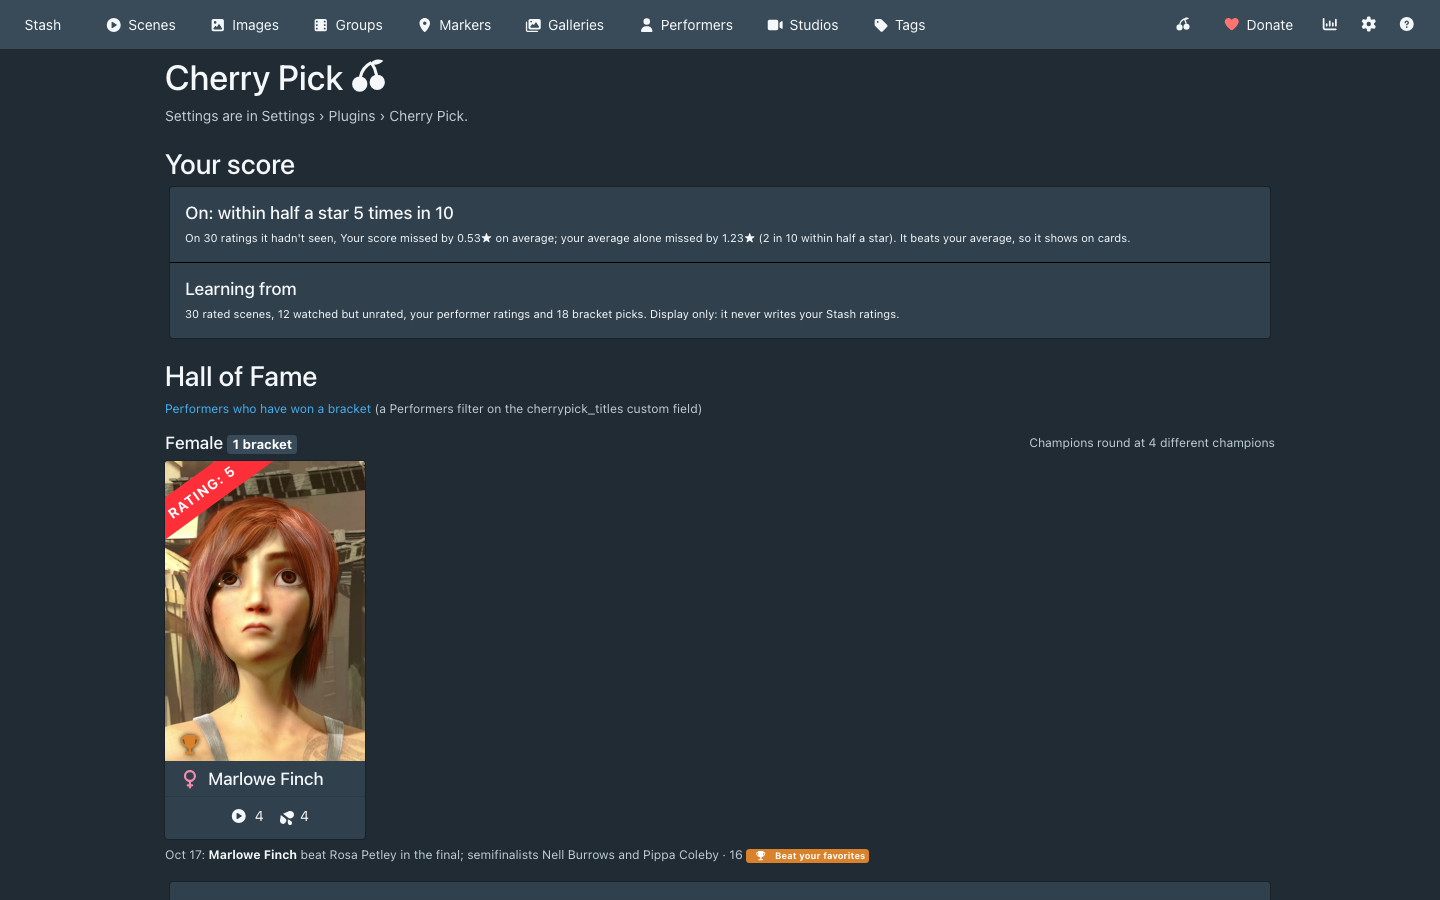
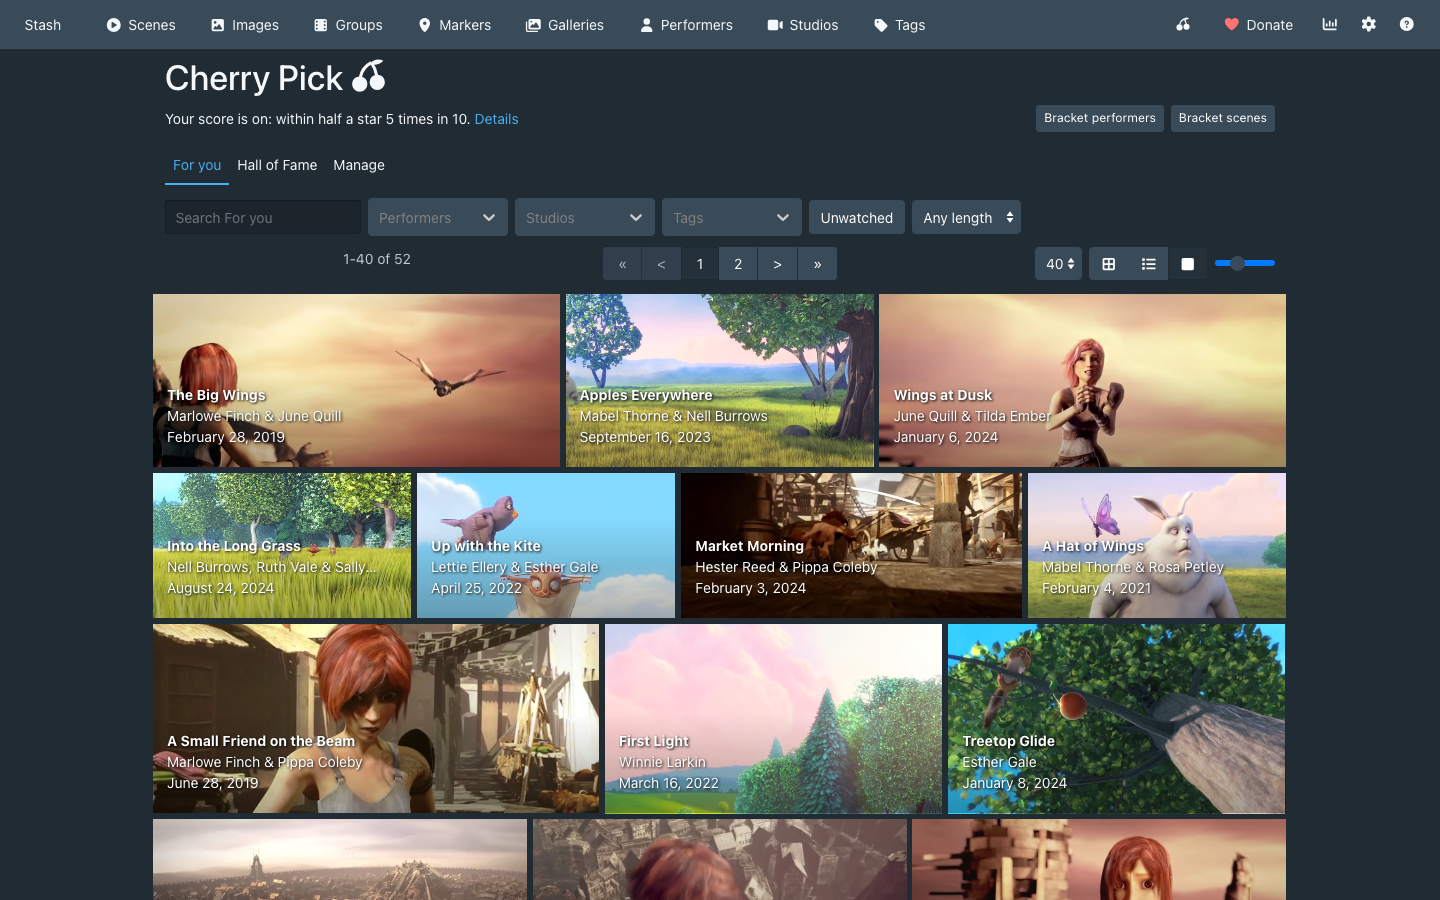
Cherry Pick 0.5.0: Curator 0.46.0 in the changelog; retake the page shot
The 0.5.0 section named Curator 0.45.0, written before the pin moved, so
tested-with.mjs failed the check job. The README's Cherry Pick's page shot
shows the For you tab in Stash's Wall view, retaken on the Blender demo
library, and the README says 0.5.0 is built and tested.

diff --git a/plugins/cherrypick/CHANGELOG.md b/plugins/cherrypick/CHANGELOG.md
@@ -7,7 +7,7 @@
 - In a scene bracket, each cover plays the scene's preview clip, muted and on a loop, so you can see both scenes move before you pick. A click or tap on the playing cover still picks it. Pointing at a cover turns its sound on when Stash is set to play sound on previews. A clip starts once at least half the cover is on screen, so on a phone the lower scene waits until you scroll to it, and nothing loads for a cover you haven't reached. A scene Stash made no preview for keeps its cover, and with reduced motion set on your device every cover stays still. The clip is the preview Stash generated, as in Look closer, so it plays whatever the scene's format and records no play.
 - The foot of Cherry Pick's page shows the version Stash has installed, with links to what's new, the forum topic and the source code, and Support Cherry Pick, which opens CandyBoudoir's Ko-fi page for anyone who wants to leave a tip. Cherry Pick is free, and a tip changes nothing in it.
 
-Tested beside Ascension 1.4.1, HotOrNot 1.0.0-c4106bf, Stash Curator 0.45.0, Xenith 3.2.0, Restash 0.3.0-55c1cb2 and Refract 1.24.3-458b135.
+Tested beside Ascension 1.4.1, HotOrNot 1.0.0-c4106bf, Stash Curator 0.46.0, Xenith 3.2.0, Restash 0.3.0-55c1cb2 and Refract 1.24.3-458b135.
 
 ## 0.4.2
 

diff --git a/plugins/cherrypick/README.md b/plugins/cherrypick/README.md
@@ -2,7 +2,7 @@
 
 A [Stash](https://github.com/stashapp/stash) plugin that learns what you like from your own ratings and plays, and shows it inside Stash's pages: a For you row on the front page, or one scene ready to play in its place, Your score on scenes you haven't rated, More like this on scene pages, and performer and scene brackets that sharpen what it learns. It needs no account and no setup. A StashDB key, if you have one in Stash, adds popularity and the scenes you don't have.
 
-Cherry Pick 0.3.3 is built and tested on Stash v0.31.1.
+Cherry Pick 0.5.0 is built and tested on Stash v0.31.1.
 
 ![The front page with Cherry Pick: For you first, each card saying why it is there, then a row of one performer's scenes](docs/screenshots/front.png)
 
